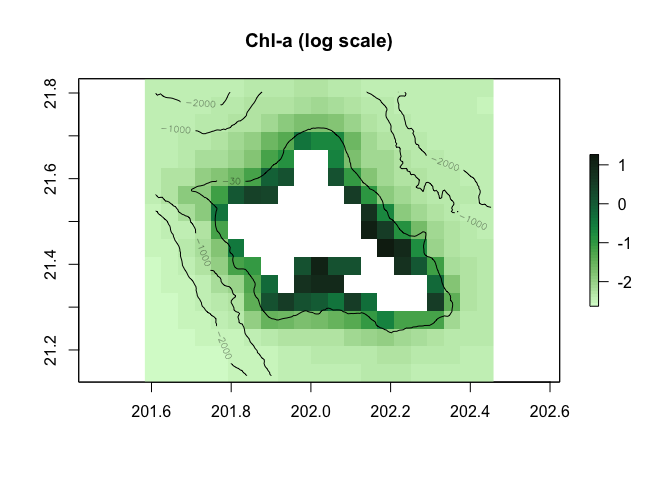
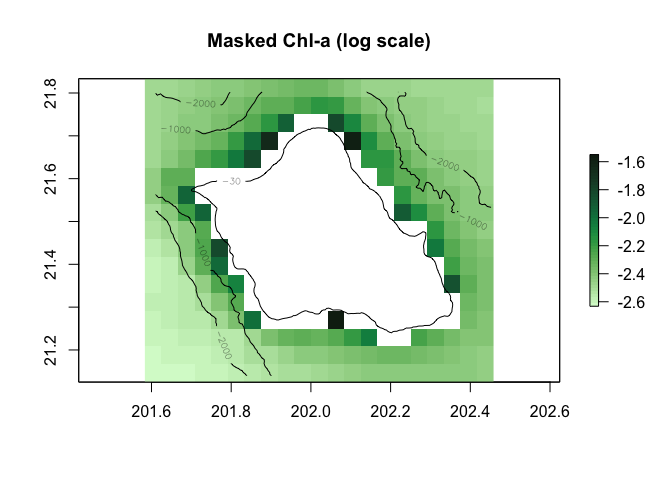
Structured code to put it into a template

diff --git a/mask-shallow-ocean-color/mask-shallow-ocean-color.md b/mask-shallow-ocean-color/mask-shallow-ocean-color.md
@@ -1,53 +1,89 @@
-## Tutorial: Mask shallow water pixels for satellite ocean color datasets
+# Mask shallow pixels for satellite ocean color datasets
 
-Satellite sensed ocean color data in the coastal shallow water can be
-contaminated by bottom reflectance. Here we use a high resolution
-bathymetry data to generate a mask to remove ocean color pixels that
-contain a portion (more than 5%) of shallow water area (less than 30m)
-(Couch et al., 2023).
+> Updated November 2023 <br/>
 
-The bathymetry data is the ETOPO Global Relief Model integrates
-topography, bathymetry, and shoreline data version 2022 in 15 arc-second
-resolution
-(<https://www.ncei.noaa.gov/products/etopo-global-relief-model>).
+Remotely sensed ocean color algorithms are calibrated for optically-deep
+waters, where the signal received by the satellite sensor originates
+from the water column without any bottom contribution.
 
-The ocean color data is the ESA CCI monthly chlorophyll-a concentration
-(<https://climate.esa.int/en/projects/ocean-colour>).
+Optically shallow waters are those in which light reflected off the
+seafloor contributes significantly to the water-leaving signal, such as
+coral reefs, atolls, lagoons. This is known to affect geophysical
+variables derived by ocean-color algorithms, often leading to biased
+values in chlorophyll-a concentration for example.
 
-Reference: Couch CS, Oliver TA, Dettloff K, Huntington B, Tanaka KR and
+In the tropical Pacific, optically-deep waters are typically deeper than
+15 – 30 m. It is recommended to remove shallow-pixels, i.e., ocean color
+pixels that contain a portion (e.g., more than 5%) of shallow water area
+(less than 30m depth), from the study area before computing ocean color
+metrics (Couch et al., 2023).
+
+## Objective
+
+In this tutorial, we demonstrate how to create a mask to remove ocean
+color pixels in the coastal shallow water that are contaminated by
+bottom reflectance.
+
+## The tutorial demonstrates the following techniques
+
+-   Accessing and Downloading satellite data from ERDDAP data server
+-   Visualizing the datasets
+-   Matching coarse-resolution ocean color data with fine-resolution
+    bathymetry data
+-   Calculating percentage of shallow water area in each ocean color
+    pixel
+-   Creating and applying value mask to datasets
+-   Calculating long-term climatology from monthly data
+-   Outputing dataset into netCDF format
+
+## Datasets used
+
+**Bathymetry data,**
+<a href="https://www.ncei.noaa.gov/products/etopo-global-relief-model">
+**ETOPO Global Relief Model** </a> **integrates topography, bathymetry,
+and shoreline data, version 2022, 15 arc-second resolution**
+
+**Ocean color data,**
+<a href="https://climate.esa.int/en/projects/ocean-colour"> **ESA
+CCI**</a> **chlorophyll-a concentration, 1998-2022, monthly**
+
+## References
+
+Couch CS, Oliver TA, Dettloff K, Huntington B, Tanaka KR and
 Vargas-Ángel B (2023) Ecological and environmental predictors of
 juvenile coral density across the central and western Pacific. Front.
-Mar. Sci. 10:1192102. doi: 10.3389/fmars.2023.1192102
+Mar. Sci. 10:1192102.
+<a href="https://www.frontiersin.org/articles/10.3389/fmars.2023.1192102/full">
+doi: 10.3389/fmars.2023.1192102 </a>
 
-    ### Load libraries
+## Load libraries
+
+    # Load libraries
     library(rerddap)
     library(raster) 
-
-    ## Loading required package: sp
-
-    ## The legacy packages maptools, rgdal, and rgeos, underpinning the sp package,
-    ## which was just loaded, will retire in October 2023.
-    ## Please refer to R-spatial evolution reports for details, especially
-    ## https://r-spatial.org/r/2023/05/15/evolution4.html.
-    ## It may be desirable to make the sf package available;
-    ## package maintainers should consider adding sf to Suggests:.
-    ## The sp package is now running under evolution status 2
-    ##      (status 2 uses the sf package in place of rgdal)
-
     library(sp) 
     library(cmocean)
     library(here)
-
-    ## here() starts at /Users/daisyhuishi/github/coastwatch-training-modules
-
     library(ncdf4)
+
+## Set work directory
 
     # This is where the data are and where the plots will go
     Dir <- here()
 
-    # Thanks to Kisei Tanaka, the tutorial is modified based on the scripts he developed for the EDS. And part of the tutorial is modified based on the previous version developed by Melanie Abecassis and Thomas Oliver.
+## Access and Download satellite data
 
-    ### Load data
+We will access the ETOPO2022 bathymetry data and the monthly ESA CCI
+chlorophyll-a concentration data (1/1998-12/2022) for the island of Oahu
+from the OceanWatch ERDDAP server. We will also download the
+chlorophyll-a data and save it to local for future use.
+
+The data can be downloaded by sending a data request to the ERDDAP
+server via URL. The data request URL includes the dataset ID of interest
+and other query conditions if subset of the data product is of interest.
+
+To learn more about how to set up ERDDAP URL data requests, please go to
+the <a href="" target="_blank">ERDDAP module page</a>.
 
     # Bounding box for Oahu:
     lon_range = c(-158.39+360, -157.55+360)
@@ -71,7 +107,11 @@ Mar. Sci. 10:1192102. doi: 10.3389/fmars.2023.1192102
                        fields = var[1],
                        store=disk('chl_data'))
 
-    # Take a look at bathymetry data
+## Visualize bathymetry and chlorophyll-a data
+
+We convert bathymetry and chlorophyll-a data to rasters for
+visulization.
+
     r_bathy=raster(bathy$summary$filename)
 
     plot(r_bathy,main="ETOPO Bathymetry (m)")
@@ -79,7 +119,6 @@ Mar. Sci. 10:1192102. doi: 10.3389/fmars.2023.1192102
 
 ![](mask-shallow-ocean-color_files/figure-markdown_strict/unnamed-chunk-4-1.png)
 
-    # Take a look at chlorophyll-a data
     r_chl=raster(chl$summary$filename,varname=var[1]) 
 
     plot(log(r_chl),main="ESA CCI Chl-a (log scale)",col=cmocean('algae')(50))
@@ -87,29 +126,29 @@ Mar. Sci. 10:1192102. doi: 10.3389/fmars.2023.1192102
 
 ![](mask-shallow-ocean-color_files/figure-markdown_strict/unnamed-chunk-5-1.png)
 
-    ### Create a mask for shallow water pixels
-    #Convert raster bathymetry to dataframe for counting
+## Match two datasets and calculate percentage of shallow water area in each ocean color pixel
+
+The ocean color data has coarser resolution (~4km) compared with the
+bathymetry data (~500m). We will calculate how much area (percentage)
+within each ocean color pixel is in shallow water (&lt;30m depth).
+
+    #Convert raster bathymetry to SpatialPoints dataframe for counting
     df_bathy = data.frame(rasterToPoints(r_bathy))
     coordinates(df_bathy) <- ~x+y
     crs(df_bathy) = crs(r_chl[[1]])
 
-    # Examine number of shallow water pixels in each chl-a grid point
-    count_shallow_pixels=function(depths,threshold=-30,na.rm=F){ 
-      return(length(which(depths>threshold))) 
-    } 
-    N_shallow = rasterize(x = df_bathy,y=r_chl,fun=count_shallow_pixels)[[2]]
-    plot(N_shallow,main="N Shallow Pixels", col=cmocean('balance')(50))
-
-![](mask-shallow-ocean-color_files/figure-markdown_strict/unnamed-chunk-6-1.png)
-
-    # Examine percentage of shallow water pixels in each chl-a grid point
+    # Define a function to calculate the percentage of (smaller) bathymetry pixels in each (larger) Chl-a pixel that are shallow
     percent_shallow_pixels=function(depths,threshold=-30, na.rm=F){ 
       return(length(which(depths>threshold))/length(depths)) 
     } 
+
+    # Build a raster of the chl-a grid, using the function to generate the shallow water area percentage to consider a pixel necessary to mask
     per_shallow =  rasterize(x = df_bathy,y=r_chl,fun=percent_shallow_pixels)[[2]]
     plot(per_shallow,main="% Shallow Pixels", col=cmocean('amp')(50))
 
-![](mask-shallow-ocean-color_files/figure-markdown_strict/unnamed-chunk-7-1.png)
+![](mask-shallow-ocean-color_files/figure-markdown_strict/unnamed-chunk-6-1.png)
+
+## Create a mask for shallow pixels
 
     # Set a percentage threshold to create the shallow water pixel mask
     percent_threshold = 0.05
@@ -118,9 +157,10 @@ Mar. Sci. 10:1192102. doi: 10.3389/fmars.2023.1192102
     depth_mask[per_shallow>= percent_threshold]= NA
     plot(depth_mask,main="Shallow water mask")
 
-![](mask-shallow-ocean-color_files/figure-markdown_strict/unnamed-chunk-8-1.png)
+![](mask-shallow-ocean-color_files/figure-markdown_strict/unnamed-chunk-7-1.png)
 
-    ### Apply created shallow water mask to chl-a data and compare unmasked and masked maps 
+## Calculate long-term climatology and compare unmasked and masked maps
+
     # Read in the files previousely downloaded
     files = list.files('chl_data/', full.names = T)
     # Read the file into R and make it to rasterstack
@@ -134,7 +174,7 @@ Mar. Sci. 10:1192102. doi: 10.3389/fmars.2023.1192102
     plot(log(r_chl_clim),main="Chl-a (log scale)",col=cmocean('algae')(50))
     contour(r_bathy,levels=c(-30,-1000,-2000),add=TRUE) 
 
-![](mask-shallow-ocean-color_files/figure-markdown_strict/unnamed-chunk-9-1.png)
+![](mask-shallow-ocean-color_files/figure-markdown_strict/unnamed-chunk-8-1.png)
 
     # Apply Mask, calculate climatology and map
     r_chl_masked = mask(x = stack_chl, mask = depth_mask)
@@ -147,9 +187,10 @@ Mar. Sci. 10:1192102. doi: 10.3389/fmars.2023.1192102
     plot(log(r_chl_masked_clim),main="Masked Chl-a (log scale)",col=cmocean('algae')(50))
     contour(r_bathy,levels=c(-30,-1000,-2000),add=TRUE) 
 
-![](mask-shallow-ocean-color_files/figure-markdown_strict/unnamed-chunk-10-1.png)
+![](mask-shallow-ocean-color_files/figure-markdown_strict/unnamed-chunk-9-1.png)
 
-    ###Output masked chl-a to netcdf file
+## Output masked chl-a to netcdf file
+
     # Grab var name and unit from unmasked nc file
     nc = nc_open(paste0(files))
     variable_name = as.character(nc$var[[1]][2])
@@ -175,3 +216,9 @@ Mar. Sci. 10:1192102. doi: 10.3389/fmars.2023.1192102
                 yname = y_name,
                 zname = z_name,
                 zunit = z_unit)
+
+## Acknowledgements
+
+Thanks to Kisei Tanaka, the tutorial is modified based on the scripts he
+developed for the EDS. And part of the tutorial is modified based on the
+previous version developed by Melanie Abecassis and Thomas Oliver.
